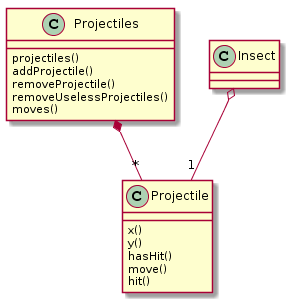
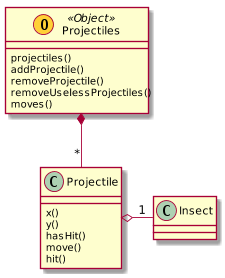
Added an explanation for events improvement. Corrected 2 diagrams

diff --git a/rapport/rapport.tex b/rapport/rapport.tex
@@ -143,7 +143,7 @@ The overall interactions of the various parts of the program are shown in figure
 
 \section{Implementation clarifications}
 
-\paragraph{Throwing projectiles} Apart from the instant kill of the Hungry Ants, all attacks are projectiles thrown at the enemy. To do that, a target is found by going through the entrances (or exits) of the tunnel, starting by the Place of the insect. Once the ant knows there is a target, a new Projectile is created with a position, a target, and the damages it should inflict on hit.
+\paragraph{Throwing projectiles} Apart from the instant kill of the Hungry Ants, all attacks are projectiles thrown at the enemy. To do that, a target is found by going through the entrances (or exits) of the tunnel, starting by the Place of the insect. Once there is a target (if there can possibly be one), a new Projectile is created with a position, a target, and the damages it should inflict on hit.
 
 \begin{tabular}{c p{8.5cm}}
 	\raisebox{-.5\height}{\includegraphics[scale=0.6]{projectileDiagram.png}}
@@ -154,8 +154,7 @@ The overall interactions of the various parts of the program are shown in figure
 \paragraph{Bee waves} To deal with the waves, we use a counter to know the wave number. The first wave is launched after 6 turns and one wave is launched on each turn from then. For that, the Controller part calls the Model function to launch a wave with the level of the bees and the number of the wave as parameters.
 
 \begin{tabular}{c p{12cm}}
-	\raisebox{-.5\height}{\includegraphics[scale=0.6]{waveDiagram.png}} % I don't think it is useful, doens't give any information
-	% No, but it breaks the queasy text, and is still nice
+	\raisebox{-.5\height}{\includegraphics[scale=0.6]{waveDiagram.png}}
 	& If the wave number is even, a range bee is launched, a classic bee otherwise. The bee is created with armour points calculated according to the bee level parameter. If the level is high enough, it also has a damage upgrade. We use a random generator to launch the bee in one of the possible tunnel entrances.\\
 \end{tabular}
 
@@ -183,13 +182,13 @@ Each button has a method to tell if it is being clicked or not. If it is, then t
 
 \section{Possible improvements}
 % TODO Florestan / Simon
-bla bla la lorem ipsum
 
-% bla bla here before
+Along with additions, the existing code can be enhanced. To give more than a glimpse of our vision we made a whole section for it.
+
 
 \paragraph{AI} A possible extension would be to simulate an artificial intelligence, to manage the waves of bees. It would know the state of the game, and would choose at each wave the best tunnel to try to exploit the player weaknesses.
 
-\paragraph{Events and better MVC separation}
+\paragraph{Better MVC separation and events} For now the MVC isn't perfect as there is visual elements in the code of the Model part. For example, insects and tunnels have their sprites has fields and they also have their coordinates. Changing this have multiple consequences. How can a bee know if it has reached another Place ? How can a projectile know it has hit its target ? A solution could be that instead of bees and projectiles checking themselves where they are, they would listen to events that come from de View part. The events would be very specific and thus make the code easier to understand. Another consequence is that there would be a better modularity and make the management of window size easier.
 
 
 \section*{Conclusion}
